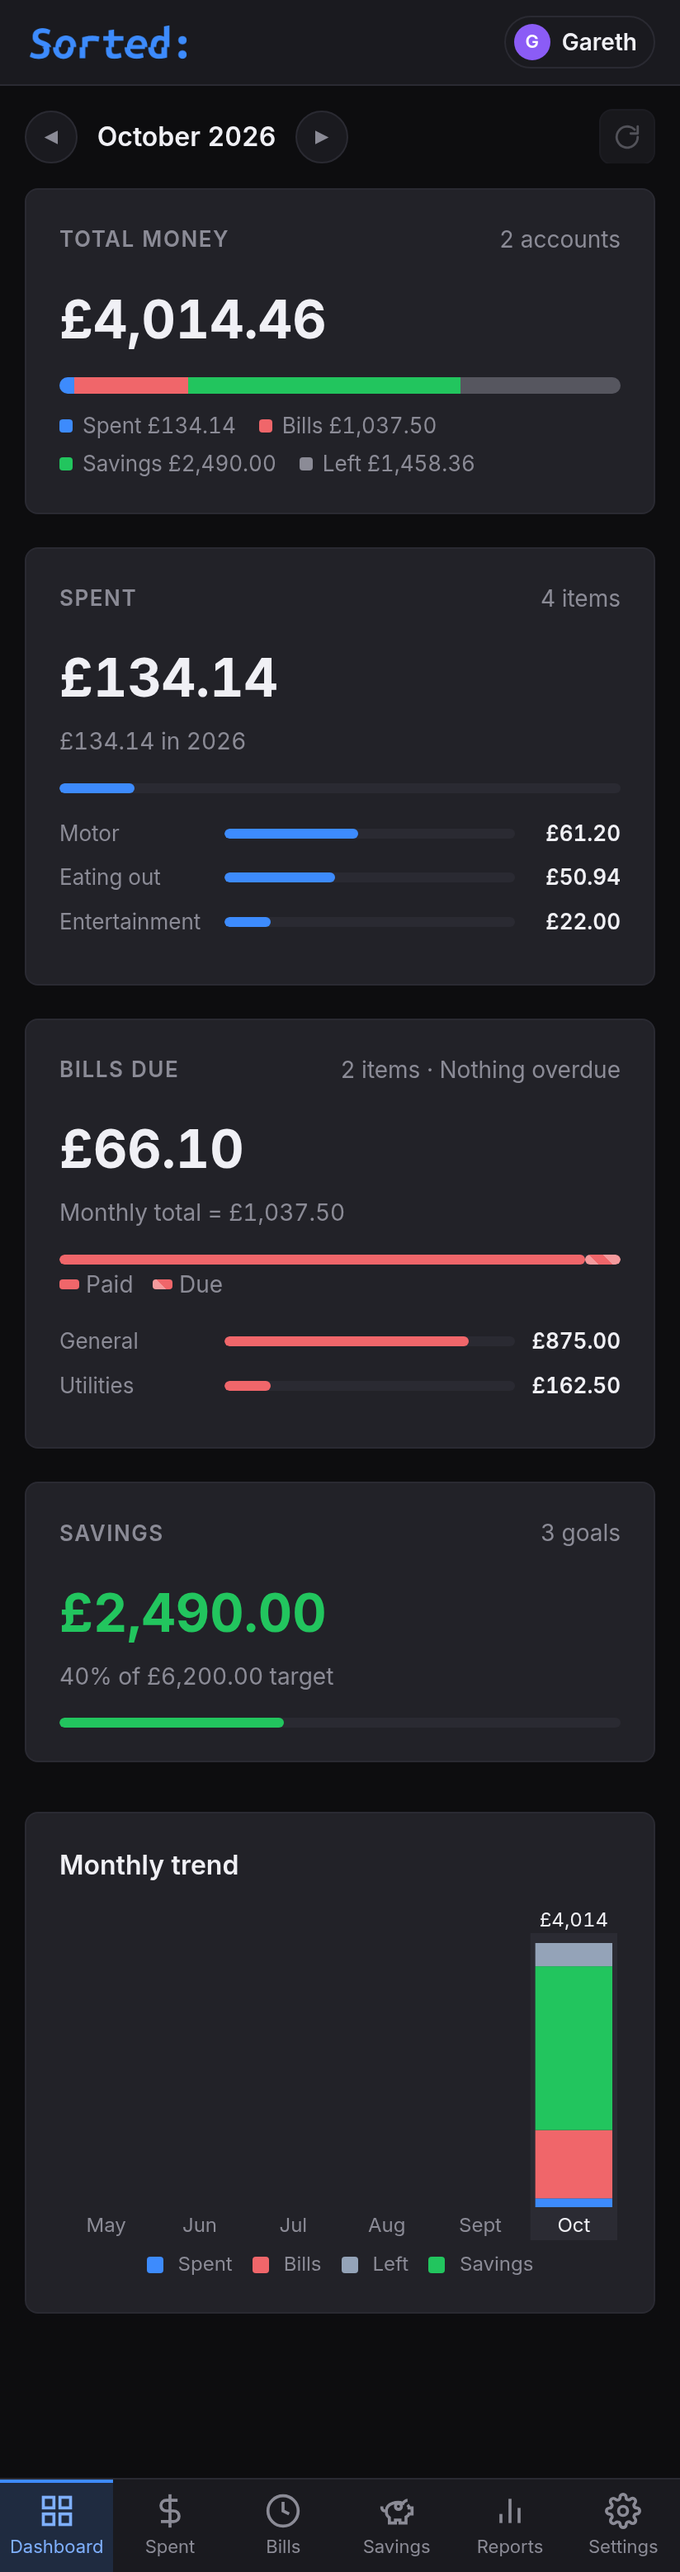
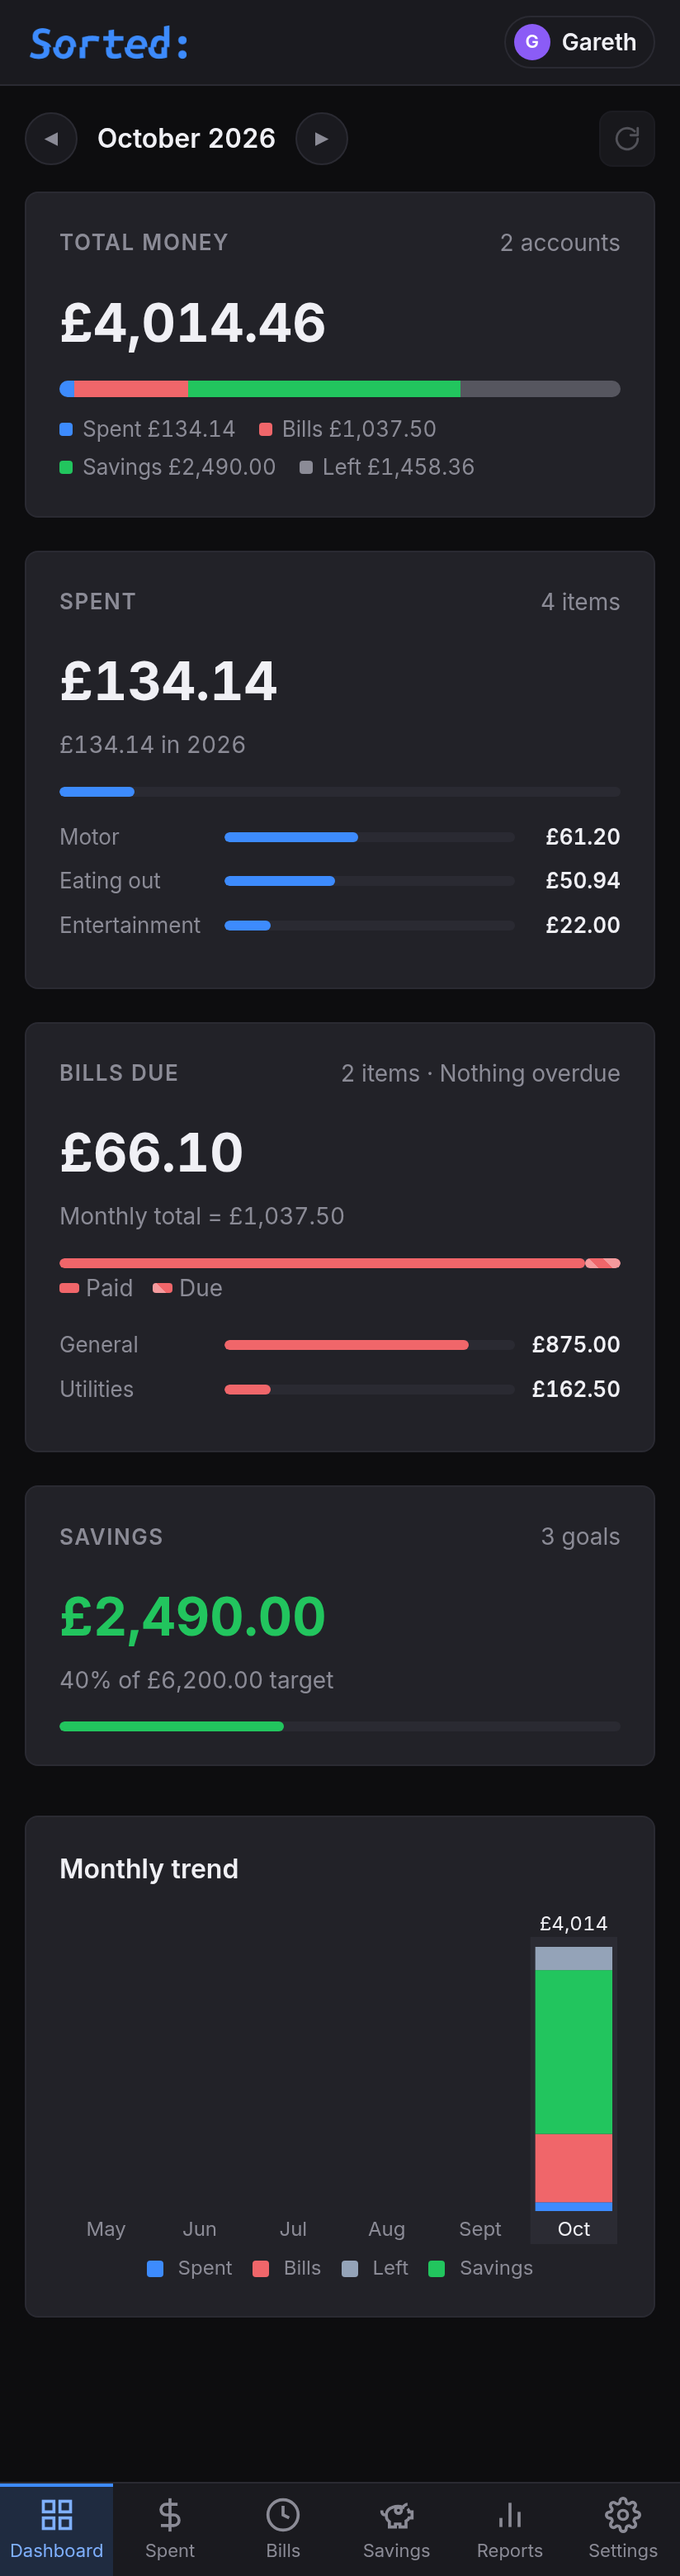
v2.99.2: every page's top row is one height, so the tabs stop jumping

diff --git a/docs/static/css/main.css b/docs/static/css/main.css
@@ -45,6 +45,11 @@
   --content-pad: 30px;
   --toolbar-chrome: 0px;
   --toolbar-top: calc(var(--toolbar-chrome) + var(--content-pad));
+  /* The height of a page's leading row, and of the controls that stand in one —
+     see .page-toolbar. It is the height of the tallest of them: in this layout
+     the action buttons and the month navigator's arrows both come out at 36px.
+     The phone rule narrows the buttons, and this narrows with them. */
+  --toolbar-h: 36px;
   --bg-surface: #1a1a1f;
   --bg-card: #222228;
   --text-primary: #f0f0f5;
@@ -1034,6 +1039,16 @@ body {
   align-items: center;
   gap: 10px;
   margin-bottom: 15px;
+  /* One height on every page, so the page below starts at the same y whichever
+     tab you are on. Left to themselves the rows disagree: in this layout the
+     action buttons and the month navigator's arrows are 36px while the report
+     range chips are 34.297, and on a phone the buttons drop to 34 and the arrows
+     to 32 — so each page's content started at its own row's height, which is the
+     jump between tabs. This reserves the tallest control a row can hold
+     (`--toolbar-h`), and `.filter-chip` is pinned to the same height below. It is
+     on the row itself rather than on `--fixed`, which stays a paint-and-sticky
+     modifier that does not touch the box. */
+  min-height: var(--toolbar-h);
 }
 
 /* The page's own top row, kept on screen while the page moves.
@@ -1904,8 +1919,15 @@ body {
   flex-wrap: wrap;
 }
 
+/* A chip is as tall as the controls it stands beside. The leading row reserves
+   `--toolbar-h`, but a chip left to the line-height it inherits came out at
+   34.297px — a hair taller than a phone's buttons and 1.7px shorter than the
+   browser's, which is the "smaller buttons" on the Reports tab. The 14px is the
+   chip's own 6px padding and 1px border, top and bottom. A label that wraps
+   still grows the chip, so nothing is clipped. */
 .filter-chip {
   padding: 6px 12px;
+  line-height: calc(var(--toolbar-h) - 14px);
   border-radius: 20px;
   font-size: var(--fs-base);
   cursor: pointer;
@@ -2923,6 +2945,9 @@ body.is-locked {
     --content-pad: 15px;
     --toolbar-chrome: calc(52px + env(safe-area-inset-top, 0px));
     --toolbar-top: calc(var(--toolbar-chrome) + var(--content-pad));
+    /* The toolbar buttons are 9px of padding around a line of text on a phone
+       rather than 10, so they are 34px here and the leading row is too. */
+    --toolbar-h: 34px;
   }
   
   .dashboard-grid {

diff --git a/docs/static/js/app.js b/docs/static/js/app.js
@@ -2,7 +2,7 @@
 
 // Single source for the version shown in the UI. Bump this together with
 // package.json and android/app/build.gradle.
-const APP_VERSION = '2.99.1';
+const APP_VERSION = '2.99.2';
 document.querySelectorAll('.app-version').forEach((el) => { el.textContent = 'v' + APP_VERSION; });
 
 let currentPage = 'dashboard';

diff --git a/README.md b/README.md
@@ -96,7 +96,7 @@ Served over HTTPS, Chrome will also offer to install it — there's a web manife
 
 ### Android (APK)
 
-Grab [`sorted-v2-2.99.1-debug.apk`](https://github.com/jaquesbody/sorted/releases/download/v2.99.1/sorted-v2-2.99.1-debug.apk) from the [releases page](https://github.com/jaquesbody/sorted/releases/latest) and sideload it (your phone will ask to allow installs from unknown sources). It's the same app wrapped in a WebView — fully offline, data stored on the phone. The phone build moves the six destinations into a bottom bar; append `?native` to the web URL to preview that layout in a desktop browser.
+Grab [`sorted-v2-2.99.2-debug.apk`](https://github.com/jaquesbody/sorted/releases/download/v2.99.2/sorted-v2-2.99.2-debug.apk) from the [releases page](https://github.com/jaquesbody/sorted/releases/latest) and sideload it (your phone will ask to allow installs from unknown sources). It's the same app wrapped in a WebView — fully offline, data stored on the phone. The phone build moves the six destinations into a bottom bar; append `?native` to the web URL to preview that layout in a desktop browser.
 
 APKs are build artefacts, so they live in releases rather than in this repo — every past build is still on the releases page.
 
